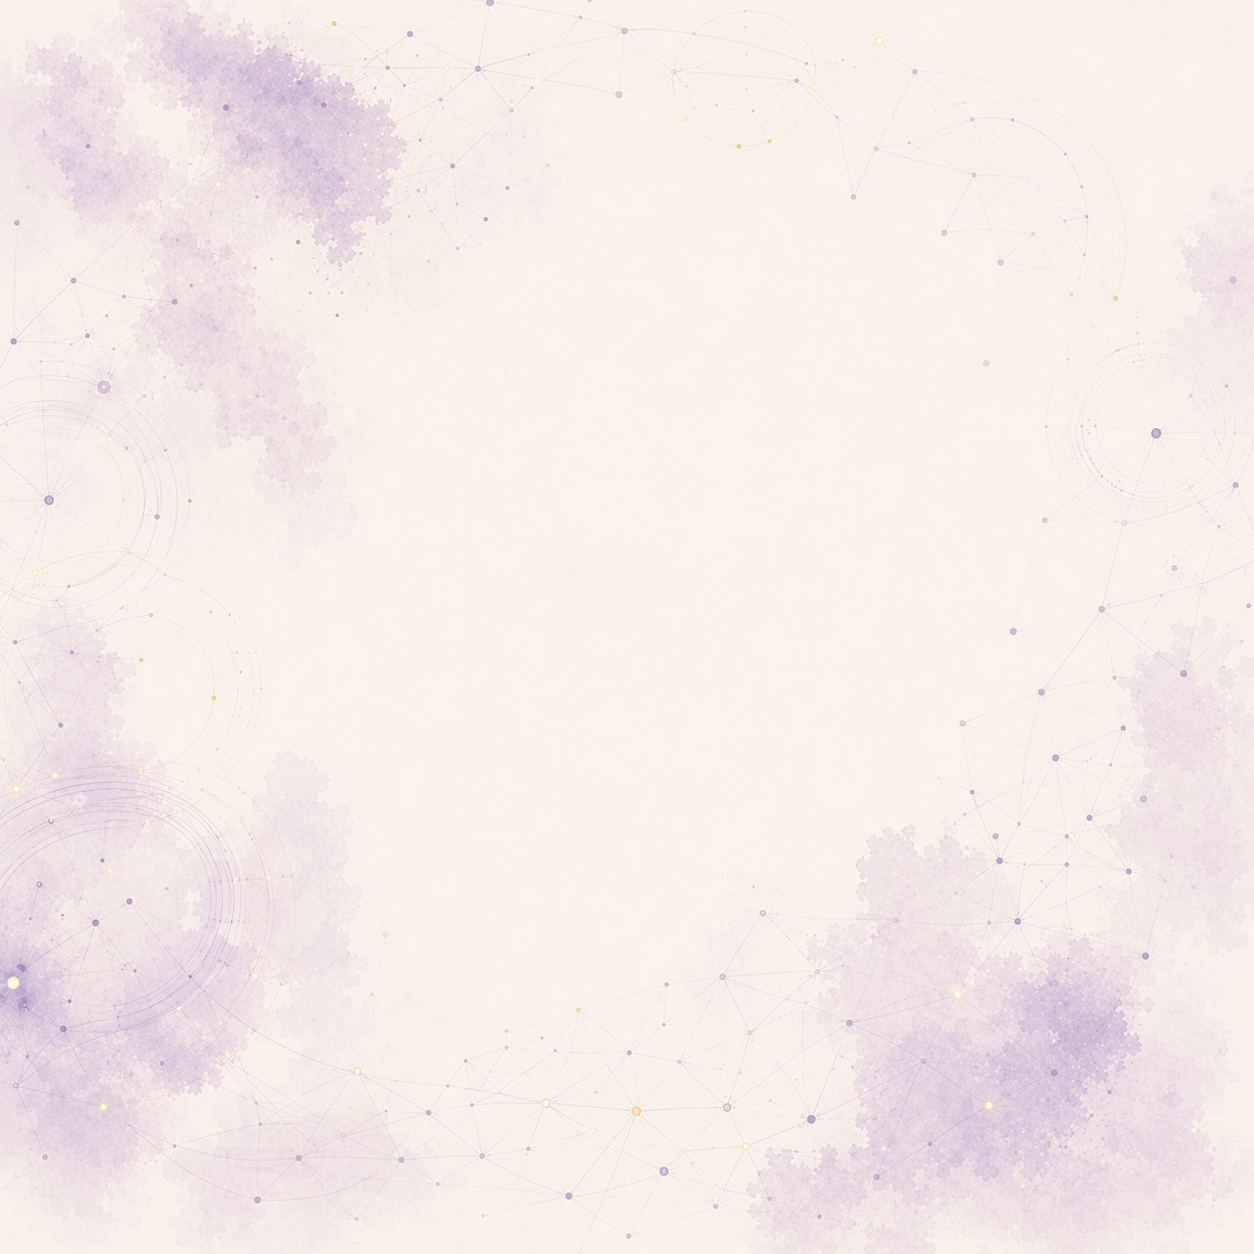
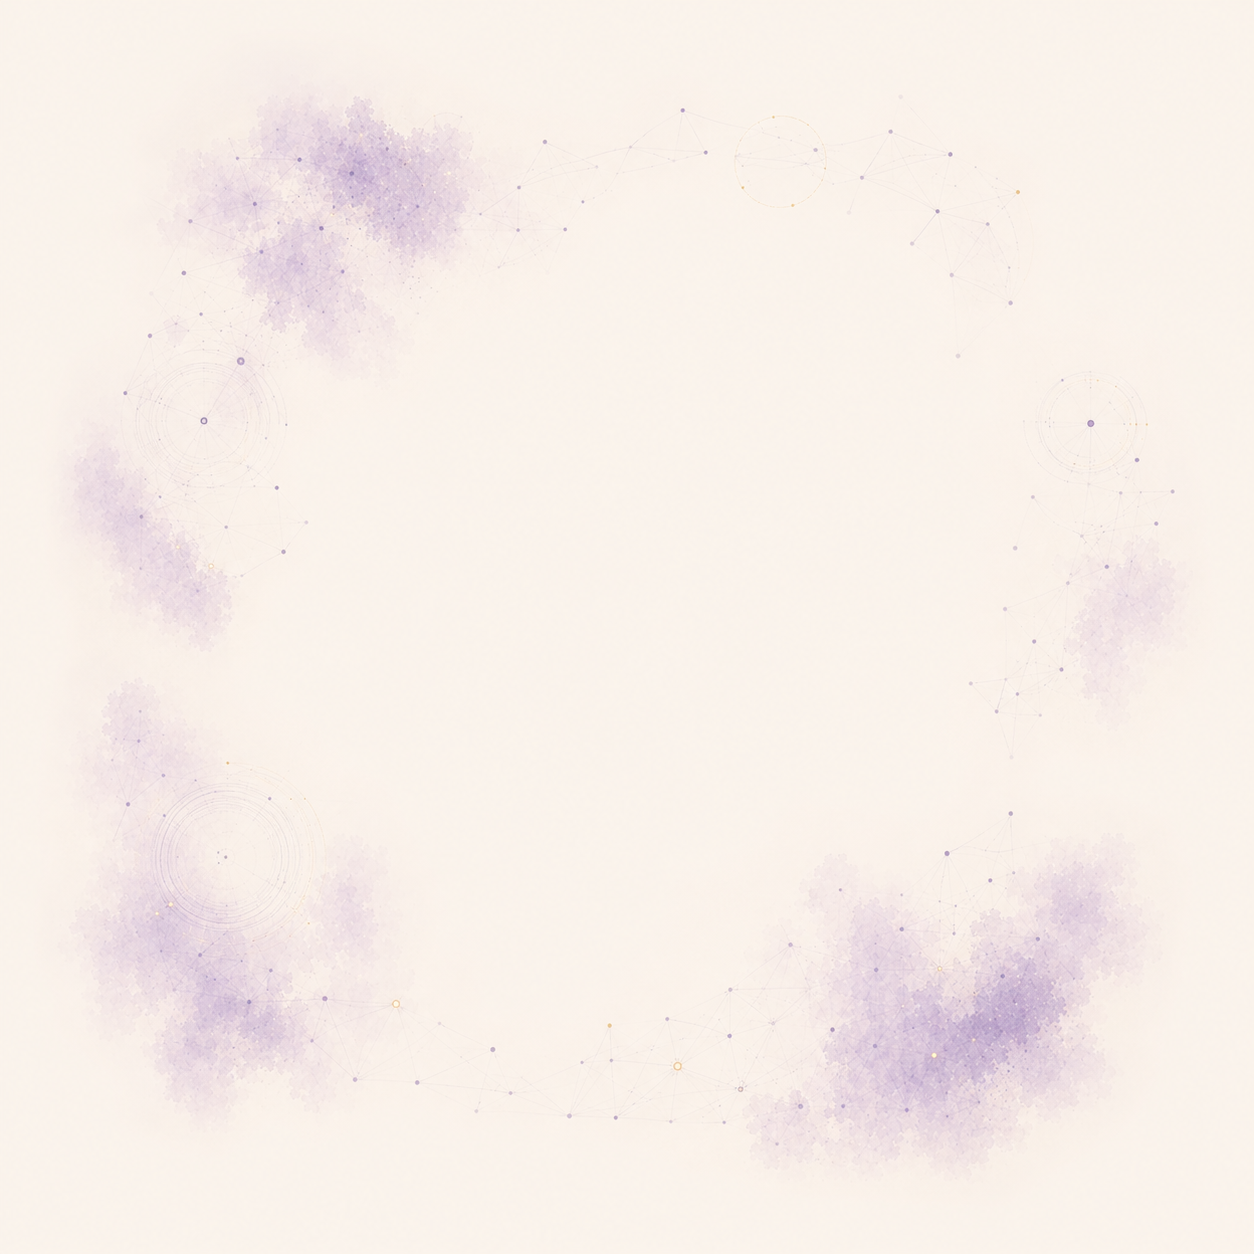
sekcja O mnie: dekoracja za portretem, kompaktowa siatka faktów, poprawka treści
- Warstwa dekoracyjna (o-mnie-dekoracja.png) wystająca poza kartę portretu,
  118%/-9% inset, pod zdjęciem i etykietą (z-index), z overflow-x-hidden na
  sekcji żeby nie psuć layoutu na mobile.
- Siatka 6 kart faktów zmniejszona (padding, ikony, odstępy) i skrócone
  treści (w tym scalenie akapitów o mnie), żeby prawa kolumna kończyła się
  na wysokości zdjęcia zamiast się pod nim "wylewać".
- Stare rozciągnięte owalne "kropki" między kartami zastąpione jednym SVG na
  breakpoint z organicznymi krzywymi bezier, poświatą i pulsowaniem — naprawia
  zniekształcenie kół (był preserveAspectRatio="none" na niekwadratowym
  kontenerze), kolorystyka spójna z hover w navbarze.
- Etykieta na portrecie: "Psycholog" -> "Student psychologii" (Patryk jest
  w trakcie studiów, nie jest jeszcze psychologiem — literówka w treści
  strony, nie tylko w tłumaczeniach).

Claude-Session: https://claude.ai/code/session_018WtPwECfjFQL93H8LWQzEh

diff --git a/src/app/[locale]/page.tsx b/src/app/[locale]/page.tsx
@@ -17,6 +17,27 @@ import { Link } from "@/i18n/navigation";
 import { getFeaturedPublications } from "@/lib/publications";
 import PublicationStatusBadge from "@/components/PublicationStatusBadge";
 
+// Kolorystyka dekoracyjnej "sieci" w siatce faktów o mnie — spójna z efektem hover w navbarze.
+const NETWORK_PURPLE = "#8B5CB8";
+const NETWORK_PURPLE_DEEP = "#6B3AA0";
+const NETWORK_WARM_DEEP = "#D4C08A";
+
+const ABOUT_NETWORK_POINTS_LG: { x: number; y: number; color: string; glow?: boolean }[] = [
+  { x: 70, y: 8, color: NETWORK_PURPLE },
+  { x: 140, y: 8, color: "#E8D9B5" },
+  { x: 70, y: 50, color: NETWORK_PURPLE_DEEP, glow: true },
+  { x: 140, y: 50, color: "#E8D9B5", glow: true },
+  { x: 70, y: 92, color: "#E8D9B5" },
+  { x: 140, y: 92, color: NETWORK_PURPLE },
+];
+
+const ABOUT_NETWORK_POINTS_SM: { x: number; y: number; color: string; glow?: boolean }[] = [
+  { x: 45, y: 6, color: NETWORK_PURPLE },
+  { x: 45, y: 33.3, color: NETWORK_PURPLE_DEEP, glow: true },
+  { x: 45, y: 66.6, color: "#E8D9B5", glow: true },
+  { x: 45, y: 94, color: "#E8D9B5" },
+];
+
 const pillars: { key: string; href: string; Icon: LucideIcon }[] = [
   { key: "badania", href: "/badania", Icon: Search },
   { key: "publikacje", href: "/publikacje", Icon: FileText },
@@ -329,22 +350,33 @@ export default async function Home() {
       </section>
 
       {/* O MNIE */}
-      <section id="o-mnie" className="border-t border-[#4A1D6E]/10 py-20 dark:border-white/10">
+      <section id="o-mnie" className="overflow-x-hidden border-t border-[#4A1D6E]/10 py-20 dark:border-white/10">
         <div className="mx-auto max-w-6xl px-6">
           <div className="grid grid-cols-1 items-start gap-12 lg:grid-cols-2">
             {/* ZDJĘCIE */}
-            <div className="relative aspect-square overflow-hidden rounded-3xl shadow-lg ring-1 ring-black/5 dark:ring-white/10">
+            <div className="relative isolate">
               <Image
-                src="/o-mnie-portret.png"
-                alt="Patryk Madej"
-                fill
-                className="object-cover"
+                src="/o-mnie-dekoracja.png"
+                alt=""
+                width={1254}
+                height={1254}
+                aria-hidden="true"
+                className="absolute -z-10 max-w-none object-cover pointer-events-none"
+                style={{ width: "118%", height: "118%", inset: "-9%" }}
               />
-              <div className="absolute bottom-6 left-6 rounded-xl bg-[#F5F1EC] px-4 py-3 shadow-lg dark:bg-neutral-900">
-                <p className="font-bold text-[#1C1028] dark:text-white">Patryk Madej</p>
-                <p className="mt-0.5 text-xs font-medium tracking-wide uppercase text-[#4A3360] dark:text-neutral-400">
-                  Badacz · Psycholog · Prawnik
-                </p>
+              <div className="relative aspect-square overflow-hidden rounded-3xl shadow-lg ring-1 ring-black/5 dark:ring-white/10">
+                <Image
+                  src="/o-mnie-portret.png"
+                  alt="Patryk Madej"
+                  fill
+                  className="object-cover"
+                />
+                <div className="absolute bottom-6 left-6 rounded-xl bg-[#F5F1EC] px-4 py-3 shadow-lg dark:bg-neutral-900">
+                  <p className="font-bold text-[#1C1028] dark:text-white">Patryk Madej</p>
+                  <p className="mt-0.5 text-xs font-medium tracking-wide uppercase text-[#4A3360] dark:text-neutral-400">
+                    Badacz · Student psychologii · Prawnik
+                  </p>
+                </div>
               </div>
             </div>
 
@@ -359,56 +391,104 @@ export default async function Home() {
               <h2 className="mt-4 text-3xl font-bold tracking-tight text-[#1C1028] lg:text-4xl dark:text-white">
                 {tAbout("heading1")} {tAbout("heading2")}
               </h2>
-              <div className="mt-6 space-y-4 text-[#4A3360] leading-relaxed dark:text-neutral-300">
-                <p>{tAbout("paragraph1")}</p>
-                <p>{tAbout("paragraph2")}</p>
-              </div>
+              <p className="mt-4 text-[#4A3360] leading-relaxed dark:text-neutral-300">
+                {tAbout("paragraph1")}
+              </p>
               <Link
                 href="/#o-mnie"
-                className="mt-8 inline-flex items-center gap-2 rounded-full bg-[#4A1D6E] px-7 py-3 text-sm font-semibold text-white transition-colors hover:bg-[#4A2073] dark:hover:bg-[#7B4DB8]"
+                className="mt-5 inline-flex items-center gap-2 rounded-full bg-[#4A1D6E] px-7 py-3 text-sm font-semibold text-white transition-colors hover:bg-[#4A2073] dark:hover:bg-[#7B4DB8]"
               >
                 {tAbout("moreLink")}
               </Link>
 
               {/* SIATKA FAKTÓW */}
-              <div className="relative mt-10 grid grid-cols-2 gap-4 lg:grid-cols-3">
-                {/* Bardzo subtelna dekoracyjna "sieć" łącząca karty w miejscach ich styku. */}
+              <div className="relative mt-5 grid grid-cols-2 gap-3 lg:grid-cols-3">
+                {/* Subtelna dekoracyjna "sieć" w miejscach styku kart — organiczne krzywe,
+                    poświata i pulsowanie, w stylu efektu hover z navbara. */}
                 <svg
                   className="pointer-events-none absolute inset-0 z-0 hidden h-full w-full lg:block"
-                  viewBox="0 0 100 100"
-                  preserveAspectRatio="none"
+                  viewBox="0 0 210 100"
+                  preserveAspectRatio="xMidYMid slice"
                   fill="none"
                   aria-hidden="true"
                 >
-                  <line x1="33.33" y1="6" x2="33.33" y2="94" stroke="#4A1D6E" strokeOpacity="0.12" strokeWidth="0.4" />
-                  <line x1="66.66" y1="6" x2="66.66" y2="94" stroke="#4A1D6E" strokeOpacity="0.12" strokeWidth="0.4" />
-                  <line x1="4" y1="50" x2="96" y2="50" stroke="#4A1D6E" strokeOpacity="0.12" strokeWidth="0.4" />
-                  {[
-                    [33.33, 6],
-                    [66.66, 6],
-                    [33.33, 50],
-                    [66.66, 50],
-                    [33.33, 94],
-                    [66.66, 94],
-                  ].map(([x, y], di) => (
-                    <circle key={di} cx={x} cy={y} r="0.9" fill="#4A1D6E" opacity="0.18" />
+                  <defs>
+                    <filter id="about-network-glow-lg" x="-200%" y="-200%" width="500%" height="500%">
+                      <feGaussianBlur stdDeviation="2.5" />
+                    </filter>
+                  </defs>
+                  <path
+                    d="M70,8 Q74,29 70,50 Q66,71 70,92"
+                    stroke={NETWORK_PURPLE}
+                    strokeOpacity="0.35"
+                    strokeWidth="0.6"
+                    strokeLinecap="round"
+                  />
+                  <path
+                    d="M140,8 Q136,29 140,50 Q144,71 140,92"
+                    stroke={NETWORK_WARM_DEEP}
+                    strokeOpacity="0.35"
+                    strokeWidth="0.6"
+                    strokeLinecap="round"
+                  />
+                  <path
+                    d="M70,50 Q105,42 140,50"
+                    stroke={NETWORK_PURPLE_DEEP}
+                    strokeOpacity="0.3"
+                    strokeWidth="0.6"
+                    strokeLinecap="round"
+                  />
+                  {ABOUT_NETWORK_POINTS_LG.map((p, i) => (
+                    <g key={i}>
+                      {p.glow && (
+                        <circle cx={p.x} cy={p.y} r="6" fill={p.color} opacity="0.28" filter="url(#about-network-glow-lg)" />
+                      )}
+                      <circle
+                        cx={p.x}
+                        cy={p.y}
+                        r={p.glow ? "2.2" : "1.6"}
+                        fill={p.color}
+                        opacity="0.7"
+                        className="animate-[pulse-dot_3s_ease-in-out_infinite]"
+                        style={{ animationDelay: `${i * 0.35}s` }}
+                      />
+                    </g>
                   ))}
                 </svg>
                 <svg
                   className="pointer-events-none absolute inset-0 z-0 h-full w-full lg:hidden"
-                  viewBox="0 0 100 100"
-                  preserveAspectRatio="none"
+                  viewBox="0 0 90 100"
+                  preserveAspectRatio="xMidYMid slice"
                   fill="none"
                   aria-hidden="true"
                 >
-                  <line x1="50" y1="4" x2="50" y2="96" stroke="#4A1D6E" strokeOpacity="0.12" strokeWidth="0.4" />
-                  <line x1="6" y1="33.33" x2="94" y2="33.33" stroke="#4A1D6E" strokeOpacity="0.12" strokeWidth="0.4" />
-                  <line x1="6" y1="66.66" x2="94" y2="66.66" stroke="#4A1D6E" strokeOpacity="0.12" strokeWidth="0.4" />
-                  {[
-                    [50, 33.33],
-                    [50, 66.66],
-                  ].map(([x, y], di) => (
-                    <circle key={di} cx={x} cy={y} r="0.9" fill="#4A1D6E" opacity="0.18" />
+                  <defs>
+                    <filter id="about-network-glow-sm" x="-200%" y="-200%" width="500%" height="500%">
+                      <feGaussianBlur stdDeviation="2" />
+                    </filter>
+                  </defs>
+                  <path
+                    d="M45,6 Q49,19.65 45,33.3 Q41,50 45,66.6 Q49,80.3 45,94"
+                    stroke={NETWORK_PURPLE}
+                    strokeOpacity="0.35"
+                    strokeWidth="0.6"
+                    strokeLinecap="round"
+                  />
+                  {ABOUT_NETWORK_POINTS_SM.map((p, i) => (
+                    <g key={i}>
+                      {p.glow && (
+                        <circle cx={p.x} cy={p.y} r="4.5" fill={p.color} opacity="0.28" filter="url(#about-network-glow-sm)" />
+                      )}
+                      <circle
+                        cx={p.x}
+                        cy={p.y}
+                        r={p.glow ? "1.7" : "1.2"}
+                        fill={p.color}
+                        opacity="0.7"
+                        className="animate-[pulse-dot_3s_ease-in-out_infinite]"
+                        style={{ animationDelay: `${i * 0.35}s` }}
+                      />
+                    </g>
                   ))}
                 </svg>
 
@@ -417,15 +497,15 @@ export default async function Home() {
                   return (
                     <div
                       key={key}
-                      className={`relative z-10 rounded-xl p-4 shadow-sm ${styles.card}`}
+                      className={`relative z-10 rounded-xl p-3 shadow-sm ${styles.card}`}
                     >
-                      <div className={`flex h-9 w-9 items-center justify-center rounded-lg ${styles.iconWrap}`}>
-                        <Icon className={`h-4 w-4 ${styles.icon}`} />
+                      <div className={`flex h-8 w-8 items-center justify-center rounded-lg ${styles.iconWrap}`}>
+                        <Icon className={`h-3.5 w-3.5 ${styles.icon}`} />
                       </div>
-                      <p className={`mt-3 text-xs font-bold tracking-wide uppercase ${styles.label}`}>
+                      <p className={`mt-2 text-xs font-bold tracking-wide uppercase ${styles.label}`}>
                         {tAbout(`cards.${key}.label`)}
                       </p>
-                      <p className={`mt-1.5 text-xs leading-snug ${styles.value}`}>
+                      <p className={`mt-1 text-xs leading-snug ${styles.value}`}>
                         {tAbout(`cards.${key}.value`)}
                       </p>
                     </div>
